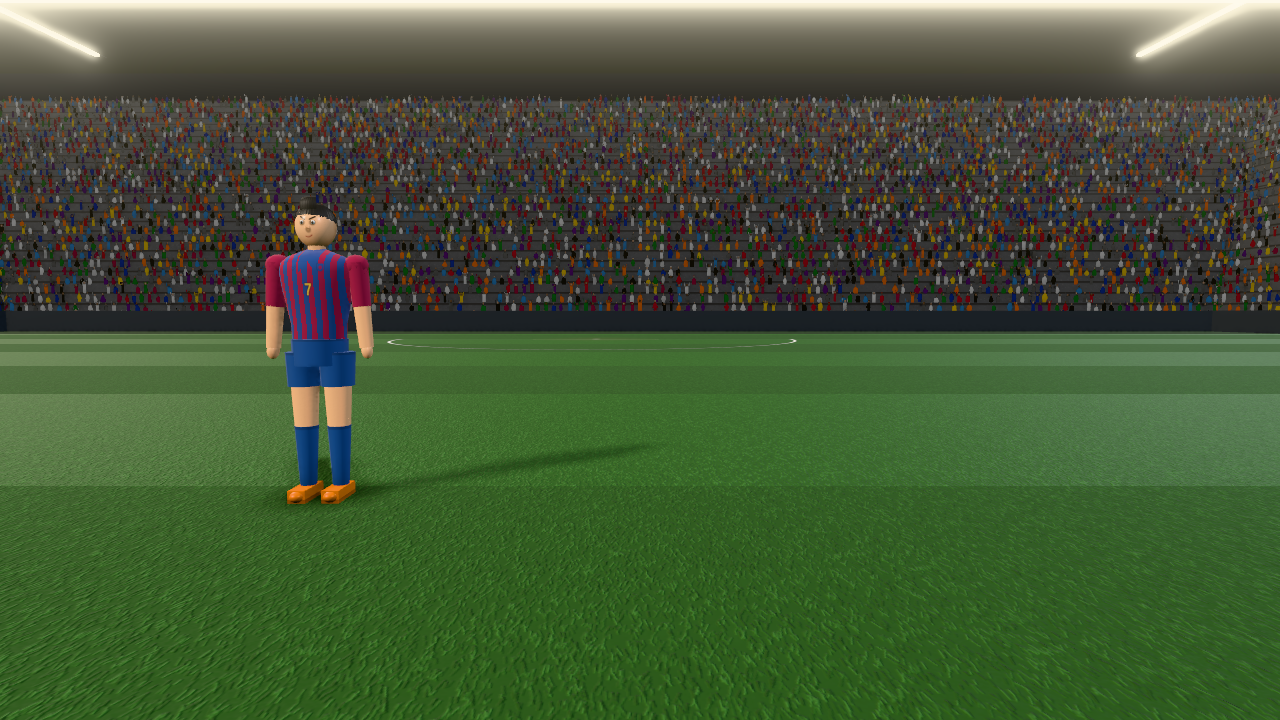
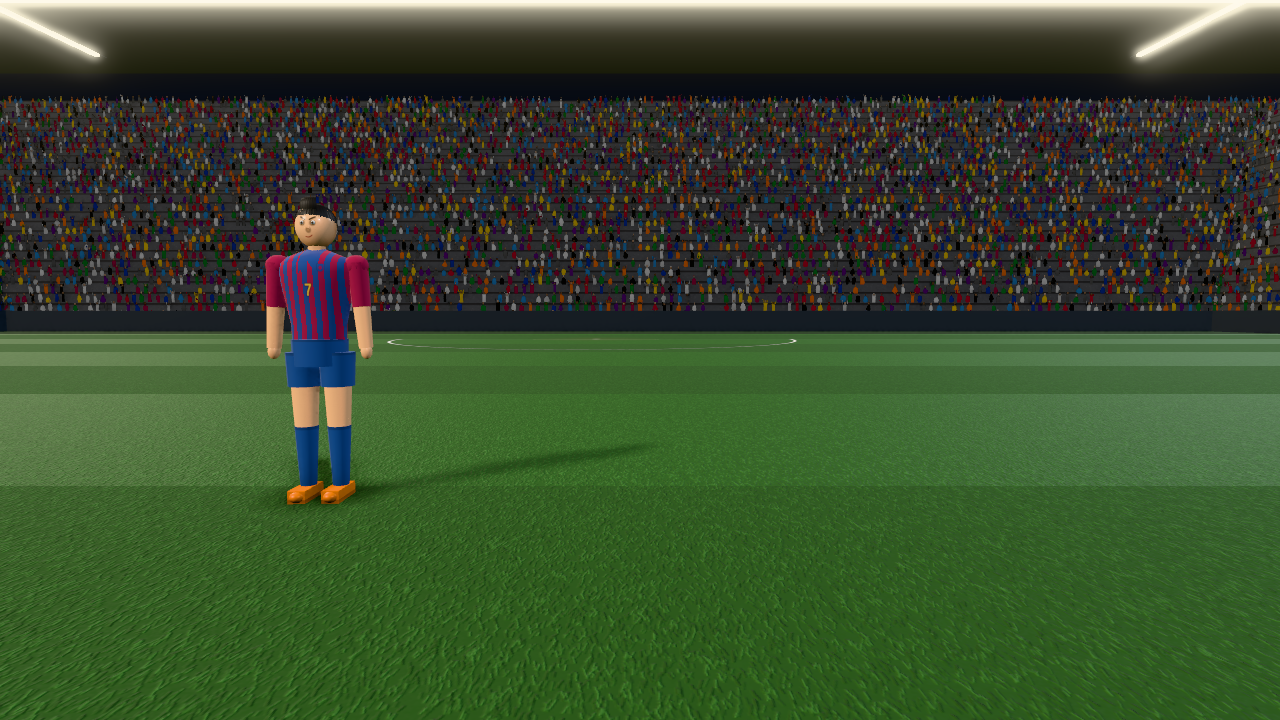
Fase 6: presets de calidad con autodetección, menú de gráficos y LOD de sombras
- Presets Bajo/Medio/Alto/Ultra: pixel ratio, mapa de sombras, LOD, público y posproceso
- Autodetección por GPU/memoria/núcleos/pantalla la primera vez; elección guardada en localStorage
- Menú ⚙ Gráficos (preset con recarga, tone mapping en vivo)
- LOD de sombras de los muñecos: plano general 605 → 384 draw calls en juego
- Capturas finales en High; README y RENDER_AUDIT con renderer.info antes/después

Claude-Session: https://claude.ai/code/session_01JYnFN99r8d1ASfZkdcj4WF

diff --git a/index.html b/index.html
@@ -5870,17 +5870,51 @@ const RENDER = (() => {
   return c;
 })();
 const TONEMAPS = { neutral: THREE.NeutralToneMapping, agx: THREE.AgXToneMapping, aces: THREE.ACESFilmicToneMapping, none: THREE.NoToneMapping };
-/* ---------- Calidad gráfica (presets; la interfaz y la autodetección completas llegan en la fase 6) ----------
-   post: cadena de posproceso (sin ella, render directo con el antialias del canvas) · msaa: muestras del render target
-   (0 → SMAA) · ao: GTAO (aoScale: resolución relativa del AO) · bloom: intensidad del bloom (0 = desactivado) */
+/* ---------- Calidad gráfica: presets Low / Medium / High / Ultra ----------
+   pr: pixel ratio máximo (nunca más que el del dispositivo) · shadow: tamaño del mapa de sombras · lod: distancia (m)
+   a partir de la que los muñecos pierden detalles · crowd: densidad de público · post: cadena de posproceso (sin
+   ella, render directo con el antialias del canvas) · msaa: muestras del render target (0 → SMAA) · ao: GTAO
+   (aoScale: resolución relativa del AO) · bloom: intensidad del bloom (0 = desactivado).
+   Se elige en el menú (⚙ Gráficos) y se guarda en localStorage 'ley_preset'; la primera vez se autodetecta. */
 const PRESETS = {
-  low: { crowd: 0.25, post: false, msaa: 0, ao: false, bloom: 0 },
-  medium: { crowd: 0.5, post: true, msaa: 0, ao: false, bloom: 0.15 },
-  high: { crowd: 0.8, post: true, msaa: 4, ao: true, aoScale: 0.5, bloom: 0.18 },
-  ultra: { crowd: 1, post: true, msaa: 4, ao: true, aoScale: 1, bloom: 0.2 },
+  low: { label: 'Bajo', pr: 1, shadow: 1024, lod: 18, crowd: 0.25, post: false, msaa: 0, ao: false, bloom: 0 },
+  medium: { label: 'Medio', pr: 1.25, shadow: 2048, lod: 22, crowd: 0.5, post: true, msaa: 0, ao: false, bloom: 0.15 },
+  high: { label: 'Alto', pr: 1.5, shadow: 2048, lod: 26, crowd: 0.8, post: true, msaa: 4, ao: true, aoScale: 0.5, bloom: 0.18 },
+  ultra: { label: 'Ultra', pr: 2, shadow: 4096, lod: 34, crowd: 1, post: true, msaa: 4, ao: true, aoScale: 1, bloom: 0.2 },
 };
-const PRESET_NAME = (() => { let p = QS.get('preset'); try { p = p || localStorage.getItem('ley_preset'); } catch (e) { } return PRESETS[p] ? p : 'high'; })();
+// Autodetección (solo si no hay preferencia guardada): GPU por WEBGL_debug_renderer_info, memoria, núcleos y tipo de pantalla.
+// Es una estimación prudente; el jugador puede cambiarla y se recuerda.
+function detectPreset() {
+  let gpu = '';
+  try {
+    const gl = document.createElement('canvas').getContext('webgl2');
+    if (!gl) return { preset: 'low', gpu: 'sin WebGL2' };
+    const ext = gl.getExtension('WEBGL_debug_renderer_info');
+    gpu = String(ext ? gl.getParameter(ext.UNMASKED_RENDERER_WEBGL) : gl.getParameter(gl.RENDERER));
+    const lose = gl.getExtension('WEBGL_lose_context'); if (lose) lose.loseContext();
+  } catch (e) { return { preset: 'medium', gpu: '?' }; }
+  const g = gpu.toLowerCase(), mem = navigator.deviceMemory || 8, cores = navigator.hardwareConcurrency || 4;
+  const mobile = matchMedia('(pointer: coarse)').matches || /android|iphone|ipad|mobile/i.test(navigator.userAgent);
+  let preset;
+  if (/swiftshader|llvmpipe|software|basic render|mesa offscreen/.test(g)) preset = 'low';
+  else if (mobile) preset = /apple gpu|adreno \(tm\) 7|adreno 7|mali-g7[1-9]|immortalis/.test(g) && mem >= 6 ? 'medium' : 'low';
+  else if (/rtx [34]0|rtx 50|rx [67]\d{3}|radeon pro w7|apple m[2-9] (pro|max|ultra)/.test(g)) preset = 'ultra';
+  else if (/nvidia|geforce|rtx|gtx|radeon|amd|apple m\d/.test(g)) preset = 'high';
+  else if (/intel|iris|uhd|arc/.test(g)) preset = /arc|iris xe/.test(g) ? 'high' : 'medium';
+  else preset = 'medium';
+  if (mem < 4 || cores <= 2) preset = preset === 'ultra' || preset === 'high' ? 'medium' : 'low';
+  return { preset, gpu };
+}
+const PRESET_INFO = (() => {
+  let p = QS.get('preset'), src = 'url';
+  if (!PRESETS[p]) { src = 'guardado'; try { p = localStorage.getItem('ley_preset'); } catch (e) { p = null; } }
+  if (!PRESETS[p]) { const d = detectPreset(); p = d.preset; src = 'auto (' + d.gpu + ')'; }
+  return { name: p, src };
+})();
+const PRESET_NAME = PRESET_INFO.name;
 const QUALITY = PRESETS[PRESET_NAME];
+function setPreset(p) { try { localStorage.setItem('ley_preset', p); } catch (e) { } const u = new URL(location.href); u.searchParams.delete('preset'); location.href = u.toString(); }
+console.info(`[render] calidad ${PRESET_NAME} (${PRESET_INFO.src})`);
 // Las luces son físicas desde r165: las intensidades antiguas (unidades heredadas) se multiplican por π
 const LU = Math.PI;
 // Focos y luces puntuales: convierte una intensidad heredada medida a la distancia de referencia a candelas (decay físico = 2)
@@ -5889,7 +5923,7 @@ const srgbTex = t => { t.colorSpace = THREE.SRGBColorSpace; return t; };
 const canvas = $('#c');
 // Con posproceso el antialias lo hace el render target (MSAA) o SMAA: el del canvas solo gastaría memoria
 const renderer = new THREE.WebGLRenderer({ canvas, antialias: !QUALITY.post, powerPreference: 'high-performance' });
-renderer.setPixelRatio(Math.min(window.devicePixelRatio || 1, 2));
+renderer.setPixelRatio(Math.min(window.devicePixelRatio || 1, QUALITY.pr));
 renderer.shadowMap.enabled = true;
 renderer.shadowMap.type = THREE.PCFShadowMap; // en r182+ PCF ya filtra suave; la penumbra se regula con shadow.radius
 renderer.outputColorSpace = THREE.SRGBColorSpace;
@@ -5997,9 +6031,9 @@ scene.environment = ENV; scene.environmentIntensity = 0.9;
 // Luz dominante: torre delantera derecha (ilumina el pecho de quien ataca la portería y proyecta sombras hacia la cámara)
 const sun = new THREE.DirectionalLight(0xfff3e2, 1.05 * LU);
 sun.position.set(44, TOWER_Y, -14); sun.target.position.set(0, 0, 20); scene.add(sun, sun.target);
-sun.castShadow = true; sun.shadow.mapSize.set(2048, 2048);
+sun.castShadow = true; sun.shadow.mapSize.set(QUALITY.shadow, QUALITY.shadow);
 // frustum ajustado al campo visto desde la torre (campo: x ±37, z -10…60)
-Object.assign(sun.shadow.camera, { left: -48, right: 48, top: 40, bottom: -40, near: 20, far: 140 }); sun.shadow.bias = -0.0003; sun.shadow.normalBias = 0.035; sun.shadow.radius = 3;
+Object.assign(sun.shadow.camera, { left: -48, right: 48, top: 40, bottom: -40, near: 20, far: 140 }); sun.shadow.bias = -0.0003; sun.shadow.normalBias = 0.035; sun.shadow.radius = 3 * QUALITY.shadow / 2048;
 const fillL = new THREE.DirectionalLight(0xe8efff, 0.36 * LU); fillL.position.set(-44, TOWER_Y, -14); fillL.target.position.set(0, 0, 20); scene.add(fillL, fillL.target);
 const rimL = new THREE.DirectionalLight(0xfff0dc, 0.34 * LU); rimL.position.set(44, TOWER_Y, 62); rimL.target.position.set(0, 0, 20); scene.add(rimL, rimL.target);
 const backL = new THREE.DirectionalLight(0xe8efff, 0.3 * LU); backL.position.set(-44, TOWER_Y, 62); backL.target.position.set(0, 0, 20); scene.add(backL, backL.target);
@@ -6493,17 +6527,29 @@ function dressFigure(f, lk) {
   M.head.map = faceTex(lk.skin, lk.face, lk.beard, lk.hairColor); M.head.needsUpdate = true;
   u.gloves.forEach(gl => gl.visible = !!lk.glove && !u.model); [u.armL, u.armR].forEach(a => a.userData.hand.visible = !lk.glove && !u.model && !u.far);
   buildHair(u.hair, lk.hair, lk.hairColor);
+  u.far = undefined; // el pelo nuevo nace con sombra: que el LOD lo vuelva a evaluar
   if (u.model) PV.dress(f);
   u.look = lk;
 }
-// LOD del muñeco: lejos de la cámara se ocultan los detalles pequeños (ojos, nariz, manos, rodillas, punteras)
-const LOD_FAR2 = 26 * 26;
+// LOD del muñeco: lejos de la cámara se ocultan los detalles pequeños (ojos, nariz, manos, rodillas, punteras y deltoides)
+// y solo proyectan sombra las piezas grandes (torso, cabeza, pantalón y medias): a esa distancia la sombra de
+// brazos, cuello, pelo y botas no se distingue y cada pieza es un draw call más en la pasada de sombras.
+// La distancia depende del preset (QUALITY.lod).
+const LOD_FAR2 = QUALITY.lod * QUALITY.lod;
+const LOD_CAST = ['jersey', 'head', 'shorts', 'sock'];
 function updateLOD(f) {
   const u = f.userData; if (!u.detail || u.model) return;
   const far = camera.position.distanceToSquared(f.getWorldPosition(_lodV)) > LOD_FAR2;
   if (far === u.far) return; u.far = far;
   const hands = [u.armL.userData.hand, u.armR.userData.hand], gloved = !!(u.look && u.look.glove);
   for (const m of u.detail) m.visible = !far && !(hands.includes(m) && gloved);
+  const keep = LOD_CAST.map(k => u.mats[k]);
+  for (const m of u.doll) {
+    if (m.userData.cast0 === undefined) m.userData.cast0 = m.castShadow;
+    m.castShadow = m.userData.cast0 && (!far || keep.includes(m.material));
+    if (m.material === u.mats.sleeve && m.geometry.type === 'SphereGeometry') m.visible = !far;
+  }
+  u.hair.traverse(o => { if (o.isMesh) o.castShadow = !far; });
 }
 const _lodV = new V3();
 /* =========================================================
@@ -8778,6 +8824,7 @@ async function mainMenu() {
       <button class="opt" data-p="modric"><div class="num">10</div><b>Luka Modrić</b><small>Centrocampista · 🇭🇷 Croacia<br>Empieza en 2003 · Dinamo Zagreb</small></button>
       <button class="opt" data-p="cr7"><div class="num">7</div><b>Cristiano Ronaldo</b><small>Delantero · 🇵🇹 Portugal<br>Empieza en 2002 · Sporting CP</small></button>
     </div>
+    <p style="margin-top:14px"><button class="hbtn" data-p="graficos">⚙ Gráficos · ${QUALITY.label}</button></p>
     <p class="muted" style="font-size:13px;margin-top:16px">Controles: apunta con el ratón (en móvil, arrastra el dedo) · mantén pulsado para cargar · suelta en la zona verde · A/D o ◀ ▶ para dar efecto · C o el botón de cámara para cambiar la vista.</p>`, opts);
   if (v === 'cont') { S = sv; return careerLoop(); }
 }
@@ -8786,6 +8833,7 @@ ui.addEventListener('click', e => {
   sfx.init(); sfx.click();
   const p = b.dataset.p;
   if (p === 'create') return creator();
+  if (p === 'graficos') return graphicsMenu();
   const tpl = LEGENDS[p];
   screen(`<div class="kicker">Nueva carrera</div><h2>${tpl.name}</h2>
     <p>Empiezas en <b>${tpl.club}</b> en la temporada ${seasonLabel(tpl.year)}, con ${tpl.age} años y media ${tpl.ovr}.</p>
@@ -8796,6 +8844,32 @@ ui.addEventListener('click', e => {
   $('#lBack').onclick = () => mainMenu();
   $('#lGo').onclick = () => { sfx.click(); newCareer(tpl, 'carrera'); S.legend = p; careerLoop(); };
 });
+
+// Ajustes gráficos: preset (recarga el juego; la carrera guardada no se toca) y tone mapping (en vivo)
+function graphicsMenu() {
+  const det = detectPreset(), TXT = {
+    low: 'Sin posproceso · sombras 1024 · menos público. Para móviles y equipos modestos.',
+    medium: 'SMAA y bloom · sombras 2048 · público medio. Portátiles con gráfica integrada.',
+    high: 'MSAA ×4, oclusión ambiental (GTAO) y bloom · sombras 2048. Objetivo: 60 fps en un portátil medio.',
+    ultra: 'Oclusión ambiental a resolución completa · sombras 4096 · estadio lleno · nitidez ×2.',
+  };
+  const TM = { neutral: 'Neutral (fiel al color)', agx: 'AgX (película)', aces: 'ACES (contraste)' };
+  screen(`<div class="kicker">Ajustes</div><h2>Gráficos</h2>
+    <p>Calidad actual: <b>${QUALITY.label}</b> <span class="muted">(${esc(PRESET_INFO.src)})</span></p>
+    <div class="opts">${Object.entries(PRESETS).map(([k, q]) => `<button class="opt${k === PRESET_NAME ? ' primary' : ''}" data-q="${k}"><b>${q.label}${k === det.preset ? ' · recomendado' : ''}</b><small>${TXT[k]}</small></button>`).join('')}
+      <button class="opt" data-q="auto"><b>Automático</b><small>Detecta tu equipo: ${PRESETS[det.preset].label}</small></button></div>
+    <p style="margin-top:18px"><b>Tono de color</b></p>
+    <div class="opts">${Object.entries(TM).map(([k, t]) => `<button class="opt${k === RENDER.tm ? ' primary' : ''}" data-tm="${k}"><b>${t}</b></button>`).join('')}</div>
+    <p class="muted" style="font-size:13px">Cambiar la calidad recarga el juego; tu carrera guardada no se pierde. Añade <b>?stats=1</b> a la dirección para ver los fps.</p>
+    <div class="opts"><button class="opt" id="gBack"><b>Volver</b></button></div>`);
+  ui.querySelectorAll('[data-q]').forEach(b => b.onclick = () => {
+    sfx.click(); const q = b.dataset.q;
+    if (q === 'auto') { try { localStorage.removeItem('ley_preset'); } catch (e) { } const u = new URL(location.href); u.searchParams.delete('preset'); location.href = u.toString(); }
+    else if (q !== PRESET_NAME) setPreset(q);
+  });
+  ui.querySelectorAll('[data-tm]').forEach(b => b.onclick = () => { sfx.click(); setRender({ tm: b.dataset.tm }); graphicsMenu(); });
+  $('#gBack').onclick = () => { sfx.click(); mainMenu(); };
+}
 
 if (!DBG) mainMenu();
 </script>

diff --git a/src/index.html b/src/index.html
@@ -544,17 +544,51 @@ const RENDER = (() => {
   return c;
 })();
 const TONEMAPS = { neutral: THREE.NeutralToneMapping, agx: THREE.AgXToneMapping, aces: THREE.ACESFilmicToneMapping, none: THREE.NoToneMapping };
-/* ---------- Calidad gráfica (presets; la interfaz y la autodetección completas llegan en la fase 6) ----------
-   post: cadena de posproceso (sin ella, render directo con el antialias del canvas) · msaa: muestras del render target
-   (0 → SMAA) · ao: GTAO (aoScale: resolución relativa del AO) · bloom: intensidad del bloom (0 = desactivado) */
+/* ---------- Calidad gráfica: presets Low / Medium / High / Ultra ----------
+   pr: pixel ratio máximo (nunca más que el del dispositivo) · shadow: tamaño del mapa de sombras · lod: distancia (m)
+   a partir de la que los muñecos pierden detalles · crowd: densidad de público · post: cadena de posproceso (sin
+   ella, render directo con el antialias del canvas) · msaa: muestras del render target (0 → SMAA) · ao: GTAO
+   (aoScale: resolución relativa del AO) · bloom: intensidad del bloom (0 = desactivado).
+   Se elige en el menú (⚙ Gráficos) y se guarda en localStorage 'ley_preset'; la primera vez se autodetecta. */
 const PRESETS = {
-  low: { crowd: 0.25, post: false, msaa: 0, ao: false, bloom: 0 },
-  medium: { crowd: 0.5, post: true, msaa: 0, ao: false, bloom: 0.15 },
-  high: { crowd: 0.8, post: true, msaa: 4, ao: true, aoScale: 0.5, bloom: 0.18 },
-  ultra: { crowd: 1, post: true, msaa: 4, ao: true, aoScale: 1, bloom: 0.2 },
+  low: { label: 'Bajo', pr: 1, shadow: 1024, lod: 18, crowd: 0.25, post: false, msaa: 0, ao: false, bloom: 0 },
+  medium: { label: 'Medio', pr: 1.25, shadow: 2048, lod: 22, crowd: 0.5, post: true, msaa: 0, ao: false, bloom: 0.15 },
+  high: { label: 'Alto', pr: 1.5, shadow: 2048, lod: 26, crowd: 0.8, post: true, msaa: 4, ao: true, aoScale: 0.5, bloom: 0.18 },
+  ultra: { label: 'Ultra', pr: 2, shadow: 4096, lod: 34, crowd: 1, post: true, msaa: 4, ao: true, aoScale: 1, bloom: 0.2 },
 };
-const PRESET_NAME = (() => { let p = QS.get('preset'); try { p = p || localStorage.getItem('ley_preset'); } catch (e) { } return PRESETS[p] ? p : 'high'; })();
+// Autodetección (solo si no hay preferencia guardada): GPU por WEBGL_debug_renderer_info, memoria, núcleos y tipo de pantalla.
+// Es una estimación prudente; el jugador puede cambiarla y se recuerda.
+function detectPreset() {
+  let gpu = '';
+  try {
+    const gl = document.createElement('canvas').getContext('webgl2');
+    if (!gl) return { preset: 'low', gpu: 'sin WebGL2' };
+    const ext = gl.getExtension('WEBGL_debug_renderer_info');
+    gpu = String(ext ? gl.getParameter(ext.UNMASKED_RENDERER_WEBGL) : gl.getParameter(gl.RENDERER));
+    const lose = gl.getExtension('WEBGL_lose_context'); if (lose) lose.loseContext();
+  } catch (e) { return { preset: 'medium', gpu: '?' }; }
+  const g = gpu.toLowerCase(), mem = navigator.deviceMemory || 8, cores = navigator.hardwareConcurrency || 4;
+  const mobile = matchMedia('(pointer: coarse)').matches || /android|iphone|ipad|mobile/i.test(navigator.userAgent);
+  let preset;
+  if (/swiftshader|llvmpipe|software|basic render|mesa offscreen/.test(g)) preset = 'low';
+  else if (mobile) preset = /apple gpu|adreno \(tm\) 7|adreno 7|mali-g7[1-9]|immortalis/.test(g) && mem >= 6 ? 'medium' : 'low';
+  else if (/rtx [34]0|rtx 50|rx [67]\d{3}|radeon pro w7|apple m[2-9] (pro|max|ultra)/.test(g)) preset = 'ultra';
+  else if (/nvidia|geforce|rtx|gtx|radeon|amd|apple m\d/.test(g)) preset = 'high';
+  else if (/intel|iris|uhd|arc/.test(g)) preset = /arc|iris xe/.test(g) ? 'high' : 'medium';
+  else preset = 'medium';
+  if (mem < 4 || cores <= 2) preset = preset === 'ultra' || preset === 'high' ? 'medium' : 'low';
+  return { preset, gpu };
+}
+const PRESET_INFO = (() => {
+  let p = QS.get('preset'), src = 'url';
+  if (!PRESETS[p]) { src = 'guardado'; try { p = localStorage.getItem('ley_preset'); } catch (e) { p = null; } }
+  if (!PRESETS[p]) { const d = detectPreset(); p = d.preset; src = 'auto (' + d.gpu + ')'; }
+  return { name: p, src };
+})();
+const PRESET_NAME = PRESET_INFO.name;
 const QUALITY = PRESETS[PRESET_NAME];
+function setPreset(p) { try { localStorage.setItem('ley_preset', p); } catch (e) { } const u = new URL(location.href); u.searchParams.delete('preset'); location.href = u.toString(); }
+console.info(`[render] calidad ${PRESET_NAME} (${PRESET_INFO.src})`);
 // Las luces son físicas desde r165: las intensidades antiguas (unidades heredadas) se multiplican por π
 const LU = Math.PI;
 // Focos y luces puntuales: convierte una intensidad heredada medida a la distancia de referencia a candelas (decay físico = 2)
@@ -563,7 +597,7 @@ const srgbTex = t => { t.colorSpace = THREE.SRGBColorSpace; return t; };
 const canvas = $('#c');
 // Con posproceso el antialias lo hace el render target (MSAA) o SMAA: el del canvas solo gastaría memoria
 const renderer = new THREE.WebGLRenderer({ canvas, antialias: !QUALITY.post, powerPreference: 'high-performance' });
-renderer.setPixelRatio(Math.min(window.devicePixelRatio || 1, 2));
+renderer.setPixelRatio(Math.min(window.devicePixelRatio || 1, QUALITY.pr));
 renderer.shadowMap.enabled = true;
 renderer.shadowMap.type = THREE.PCFShadowMap; // en r182+ PCF ya filtra suave; la penumbra se regula con shadow.radius
 renderer.outputColorSpace = THREE.SRGBColorSpace;
@@ -671,9 +705,9 @@ scene.environment = ENV; scene.environmentIntensity = 0.9;
 // Luz dominante: torre delantera derecha (ilumina el pecho de quien ataca la portería y proyecta sombras hacia la cámara)
 const sun = new THREE.DirectionalLight(0xfff3e2, 1.05 * LU);
 sun.position.set(44, TOWER_Y, -14); sun.target.position.set(0, 0, 20); scene.add(sun, sun.target);
-sun.castShadow = true; sun.shadow.mapSize.set(2048, 2048);
+sun.castShadow = true; sun.shadow.mapSize.set(QUALITY.shadow, QUALITY.shadow);
 // frustum ajustado al campo visto desde la torre (campo: x ±37, z -10…60)
-Object.assign(sun.shadow.camera, { left: -48, right: 48, top: 40, bottom: -40, near: 20, far: 140 }); sun.shadow.bias = -0.0003; sun.shadow.normalBias = 0.035; sun.shadow.radius = 3;
+Object.assign(sun.shadow.camera, { left: -48, right: 48, top: 40, bottom: -40, near: 20, far: 140 }); sun.shadow.bias = -0.0003; sun.shadow.normalBias = 0.035; sun.shadow.radius = 3 * QUALITY.shadow / 2048;
 const fillL = new THREE.DirectionalLight(0xe8efff, 0.36 * LU); fillL.position.set(-44, TOWER_Y, -14); fillL.target.position.set(0, 0, 20); scene.add(fillL, fillL.target);
 const rimL = new THREE.DirectionalLight(0xfff0dc, 0.34 * LU); rimL.position.set(44, TOWER_Y, 62); rimL.target.position.set(0, 0, 20); scene.add(rimL, rimL.target);
 const backL = new THREE.DirectionalLight(0xe8efff, 0.3 * LU); backL.position.set(-44, TOWER_Y, 62); backL.target.position.set(0, 0, 20); scene.add(backL, backL.target);
@@ -1167,17 +1201,29 @@ function dressFigure(f, lk) {
   M.head.map = faceTex(lk.skin, lk.face, lk.beard, lk.hairColor); M.head.needsUpdate = true;
   u.gloves.forEach(gl => gl.visible = !!lk.glove && !u.model); [u.armL, u.armR].forEach(a => a.userData.hand.visible = !lk.glove && !u.model && !u.far);
   buildHair(u.hair, lk.hair, lk.hairColor);
+  u.far = undefined; // el pelo nuevo nace con sombra: que el LOD lo vuelva a evaluar
   if (u.model) PV.dress(f);
   u.look = lk;
 }
-// LOD del muñeco: lejos de la cámara se ocultan los detalles pequeños (ojos, nariz, manos, rodillas, punteras)
-const LOD_FAR2 = 26 * 26;
+// LOD del muñeco: lejos de la cámara se ocultan los detalles pequeños (ojos, nariz, manos, rodillas, punteras y deltoides)
+// y solo proyectan sombra las piezas grandes (torso, cabeza, pantalón y medias): a esa distancia la sombra de
+// brazos, cuello, pelo y botas no se distingue y cada pieza es un draw call más en la pasada de sombras.
+// La distancia depende del preset (QUALITY.lod).
+const LOD_FAR2 = QUALITY.lod * QUALITY.lod;
+const LOD_CAST = ['jersey', 'head', 'shorts', 'sock'];
 function updateLOD(f) {
   const u = f.userData; if (!u.detail || u.model) return;
   const far = camera.position.distanceToSquared(f.getWorldPosition(_lodV)) > LOD_FAR2;
   if (far === u.far) return; u.far = far;
   const hands = [u.armL.userData.hand, u.armR.userData.hand], gloved = !!(u.look && u.look.glove);
   for (const m of u.detail) m.visible = !far && !(hands.includes(m) && gloved);
+  const keep = LOD_CAST.map(k => u.mats[k]);
+  for (const m of u.doll) {
+    if (m.userData.cast0 === undefined) m.userData.cast0 = m.castShadow;
+    m.castShadow = m.userData.cast0 && (!far || keep.includes(m.material));
+    if (m.material === u.mats.sleeve && m.geometry.type === 'SphereGeometry') m.visible = !far;
+  }
+  u.hair.traverse(o => { if (o.isMesh) o.castShadow = !far; });
 }
 const _lodV = new V3();
 /* =========================================================
@@ -3452,6 +3498,7 @@ async function mainMenu() {
       <button class="opt" data-p="modric"><div class="num">10</div><b>Luka Modrić</b><small>Centrocampista · 🇭🇷 Croacia<br>Empieza en 2003 · Dinamo Zagreb</small></button>
       <button class="opt" data-p="cr7"><div class="num">7</div><b>Cristiano Ronaldo</b><small>Delantero · 🇵🇹 Portugal<br>Empieza en 2002 · Sporting CP</small></button>
     </div>
+    <p style="margin-top:14px"><button class="hbtn" data-p="graficos">⚙ Gráficos · ${QUALITY.label}</button></p>
     <p class="muted" style="font-size:13px;margin-top:16px">Controles: apunta con el ratón (en móvil, arrastra el dedo) · mantén pulsado para cargar · suelta en la zona verde · A/D o ◀ ▶ para dar efecto · C o el botón de cámara para cambiar la vista.</p>`, opts);
   if (v === 'cont') { S = sv; return careerLoop(); }
 }
@@ -3460,6 +3507,7 @@ ui.addEventListener('click', e => {
   sfx.init(); sfx.click();
   const p = b.dataset.p;
   if (p === 'create') return creator();
+  if (p === 'graficos') return graphicsMenu();
   const tpl = LEGENDS[p];
   screen(`<div class="kicker">Nueva carrera</div><h2>${tpl.name}</h2>
     <p>Empiezas en <b>${tpl.club}</b> en la temporada ${seasonLabel(tpl.year)}, con ${tpl.age} años y media ${tpl.ovr}.</p>
@@ -3470,6 +3518,32 @@ ui.addEventListener('click', e => {
   $('#lBack').onclick = () => mainMenu();
   $('#lGo').onclick = () => { sfx.click(); newCareer(tpl, 'carrera'); S.legend = p; careerLoop(); };
 });
+
+// Ajustes gráficos: preset (recarga el juego; la carrera guardada no se toca) y tone mapping (en vivo)
+function graphicsMenu() {
+  const det = detectPreset(), TXT = {
+    low: 'Sin posproceso · sombras 1024 · menos público. Para móviles y equipos modestos.',
+    medium: 'SMAA y bloom · sombras 2048 · público medio. Portátiles con gráfica integrada.',
+    high: 'MSAA ×4, oclusión ambiental (GTAO) y bloom · sombras 2048. Objetivo: 60 fps en un portátil medio.',
+    ultra: 'Oclusión ambiental a resolución completa · sombras 4096 · estadio lleno · nitidez ×2.',
+  };
+  const TM = { neutral: 'Neutral (fiel al color)', agx: 'AgX (película)', aces: 'ACES (contraste)' };
+  screen(`<div class="kicker">Ajustes</div><h2>Gráficos</h2>
+    <p>Calidad actual: <b>${QUALITY.label}</b> <span class="muted">(${esc(PRESET_INFO.src)})</span></p>
+    <div class="opts">${Object.entries(PRESETS).map(([k, q]) => `<button class="opt${k === PRESET_NAME ? ' primary' : ''}" data-q="${k}"><b>${q.label}${k === det.preset ? ' · recomendado' : ''}</b><small>${TXT[k]}</small></button>`).join('')}
+      <button class="opt" data-q="auto"><b>Automático</b><small>Detecta tu equipo: ${PRESETS[det.preset].label}</small></button></div>
+    <p style="margin-top:18px"><b>Tono de color</b></p>
+    <div class="opts">${Object.entries(TM).map(([k, t]) => `<button class="opt${k === RENDER.tm ? ' primary' : ''}" data-tm="${k}"><b>${t}</b></button>`).join('')}</div>
+    <p class="muted" style="font-size:13px">Cambiar la calidad recarga el juego; tu carrera guardada no se pierde. Añade <b>?stats=1</b> a la dirección para ver los fps.</p>
+    <div class="opts"><button class="opt" id="gBack"><b>Volver</b></button></div>`);
+  ui.querySelectorAll('[data-q]').forEach(b => b.onclick = () => {
+    sfx.click(); const q = b.dataset.q;
+    if (q === 'auto') { try { localStorage.removeItem('ley_preset'); } catch (e) { } const u = new URL(location.href); u.searchParams.delete('preset'); location.href = u.toString(); }
+    else if (q !== PRESET_NAME) setPreset(q);
+  });
+  ui.querySelectorAll('[data-tm]').forEach(b => b.onclick = () => { sfx.click(); setRender({ tm: b.dataset.tm }); graphicsMenu(); });
+  $('#gBack').onclick = () => { sfx.click(); mainMenu(); };
+}
 
 if (!DBG) mainMenu();
 </script>

diff --git a/RENDER_AUDIT.md b/RENDER_AUDIT.md
@@ -265,3 +265,47 @@ Con el LOD bajan los draw calls; los triángulos suben por el pelo y el torso to
 El posproceso añade unas 18 llamadas de pantalla completa. El coste real está en el *fill rate* (MSAA en HalfFloat, GTAO y mips del bloom): se mide con GPU y `?stats=1`, no aquí.
 
 **Pendiente:** el *depth fade* exacto de los conos volumétricos contra la escena necesitaría una prepasada de profundidad. Por ahora mantienen el fundido por altura, sin artefactos visibles.
+
+---
+
+# Fase 6 — Presets de calidad y rendimiento (hecha)
+
+| Preset | Pixel ratio máx. | Sombras | LOD | Público | Posproceso |
+|---|---|---|---|---|---|
+| Bajo | 1 | 1024 | 18 m | 25 % | ninguno (antialias del canvas) |
+| Medio | 1,25 | 2048 | 22 m | 50 % | SMAA + bloom |
+| Alto | 1,5 | 2048 | 26 m | 80 % | MSAA ×4 + GTAO (½ res.) + bloom |
+| Ultra | 2 | 4096 | 34 m | 100 % | MSAA ×4 + GTAO + bloom |
+
+El pixel ratio nunca supera el del dispositivo (`min(dpr, pr)`) y el radio de la sombra PCF escala con el mapa.
+
+- **Selector:** menú principal → ⚙ Gráficos. Cambiar el preset recarga el juego, porque el antialias del canvas y la cadena de render se crean al arrancar; la partida guardada no se toca. El tono de color (Neutral, AgX, ACES) cambia en vivo. Se guarda en `localStorage` (`ley_preset`, `ley_render`).
+- **Autodetección** (`detectPreset()`, solo si no hay preferencia guardada): usa la GPU (`WEBGL_debug_renderer_info`), la memoria, los núcleos y el tipo de puntero.
+  - Software (SwiftShader, llvmpipe): Bajo.
+  - Móvil: Bajo, o Medio en GPUs de gama alta.
+  - Intel integrada: Medio; Iris Xe o Arc: Alto.
+  - NVIDIA, AMD o Apple M: Alto; RTX 30/40/50, RX 6000/7000 o M Pro/Max: Ultra.
+  - Con menos de 4 GB o 2 núcleos baja un nivel.
+  - En este entorno detecta SwiftShader y elige Bajo, como debe ser.
+- **Reducción de draw calls:** el LOD de los muñecos también recorta la pasada de sombras. De lejos solo proyectan sombra el torso, la cabeza, el pantalón y las medias, y se ocultan los deltoides. En una jugada real del plano general (High), **605 → 384 draw calls** (−37 %): las piezas con sombra pasan de 246 a 78.
+- Las capturas usan `?preset=high` explícito (la autodetección daría Bajo en SwiftShader). Con otro preset se añade además el retrato en High.
+
+## renderer.info: antes (fase 0) y después (fase 6)
+
+High, 1280×720, todas las pasadas del fotograma (sombras y posproceso incluidos). **Medido con SwiftShader: los fps de este entorno no son representativos. Hay que medirlos con GPU y `?stats=1`.**
+
+| Plano | Antes: calls / triángulos | Después: calls / triángulos |
+|---|---|---|
+| Retrato | 120 / 7 812 | 169 / 114 456 |
+| Cuerpo frontal | 130 / 8 032 | 131 / 60 862 |
+| Espalda (dorsal) | 131 / 8 434 | 131 / 60 876 |
+| Plano general | 868 / 68 572 | **404** / 98 964 |
+
+- **Retrato:** el Bokeh dibuja la profundidad de la escena otra vez, solo en este modo.
+- **Triángulos:** suben por el público instanciado (unos 26 000 en una llamada), el pelo en tarjetas y el torso torneado.
+- **Plano general:** la mitad de llamadas que antes, con estadio, público y posproceso completos.
+
+**Siguiente paso de rendimiento**, si con GPU High no llega a 60 fps:
+- Usar un GLB con una sola malla por jugador (`ASSETS.md`). La autoprueba lo deja en 214 llamadas.
+- Fusionar la estructura estática del estadio (`BufferGeometryUtils.mergeGeometries`).
+- Bajar el `aoScale`.

diff --git a/README.md b/README.md
@@ -1,6 +1,6 @@
 # ⚽ LEYENDA: Modo Carrera
 
-Videojuego de fútbol en 3D para el navegador, con personajes de estilo bloques.
+Videojuego de fútbol en 3D para el navegador, con render PBR (Three.js r186) y posproceso.
 Crea tu jugador (o juega con Modrić o Cristiano Ronaldo) y vive su carrera: tus decisiones
 y tus disparos interactivos cambian tus goles, asistencias, títulos y Balones de Oro.
 
@@ -40,8 +40,12 @@ y tus disparos interactivos cambian tus goles, asistencias, títulos y Balones d
   incrusta Three.js (npm, versión fijada en `package.json`) para que funcione en GitHub Pages y con doble clic sin internet.
 - `npm ci` instala las dependencias; `npm run check` comprueba que `index.html` está al día y que no hay errores de sintaxis.
 - `npm run capturas -- after` genera las capturas de verificación del render en `docs/render/after/`.
+- **Calidad gráfica:** menú principal → ⚙ Gráficos (Bajo, Medio, Alto, Ultra o Automático). La primera vez se autodetecta.
+  También vale `?preset=low|medium|high|ultra`.
 - Parámetros de diagnóstico: `?stats=1` (fps y `renderer.info`), `?debug=color` (muestras de color de los kits),
-  `?tonemap=neutral|agx|aces|none` y `?exposure=1.0`.
+  `?tonemap=neutral|agx|aces|none`, `?exposure=1.0` y `?selftest=glb` (prueba del pipeline de modelos GLB).
+- Assets opcionales (HDRI, texturas, futbolista GLB): ver `ASSETS.md`. Para que carguen, sirve la carpeta por http
+  (`python3 -m http.server`); con doble clic se usa la versión procedural. Detalles técnicos del render en `RENDER_AUDIT.md`.
 - Cada cambio en `main` pasa por GitHub Actions (`npm ci` + `npm run check`) antes de publicarse en GitHub Pages.
 
 > Juego de fans sin fines comerciales. Los nombres de jugadores, clubes y competiciones pertenecen a sus respectivos dueños.
